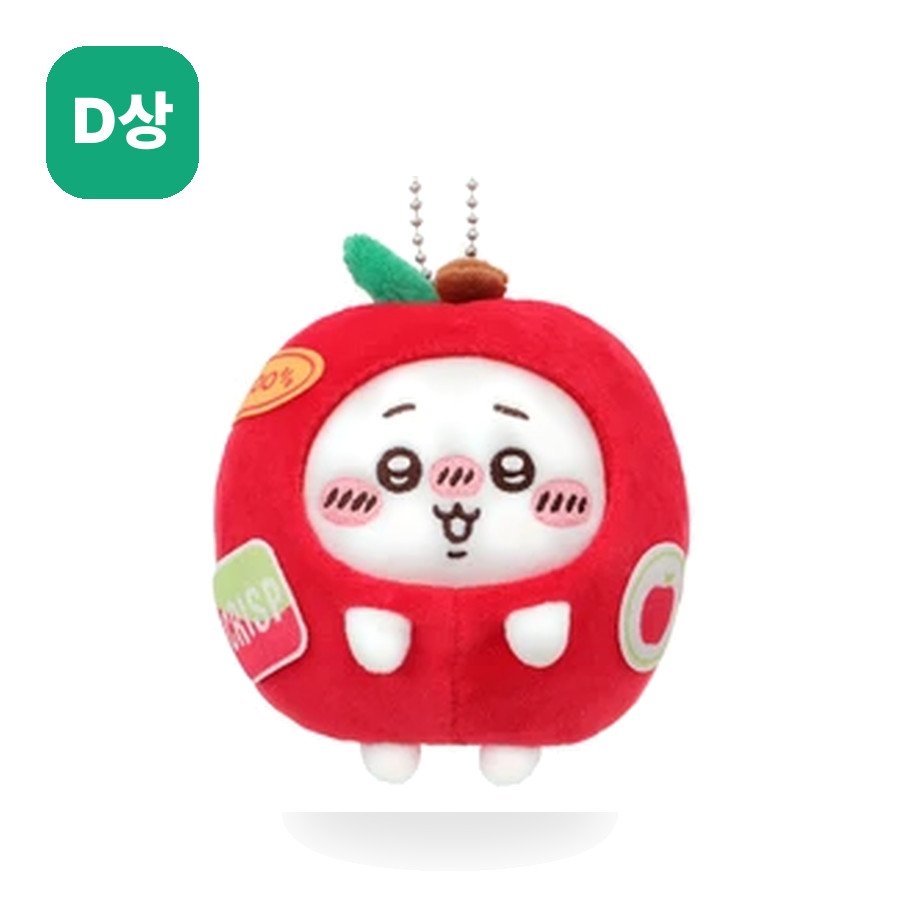
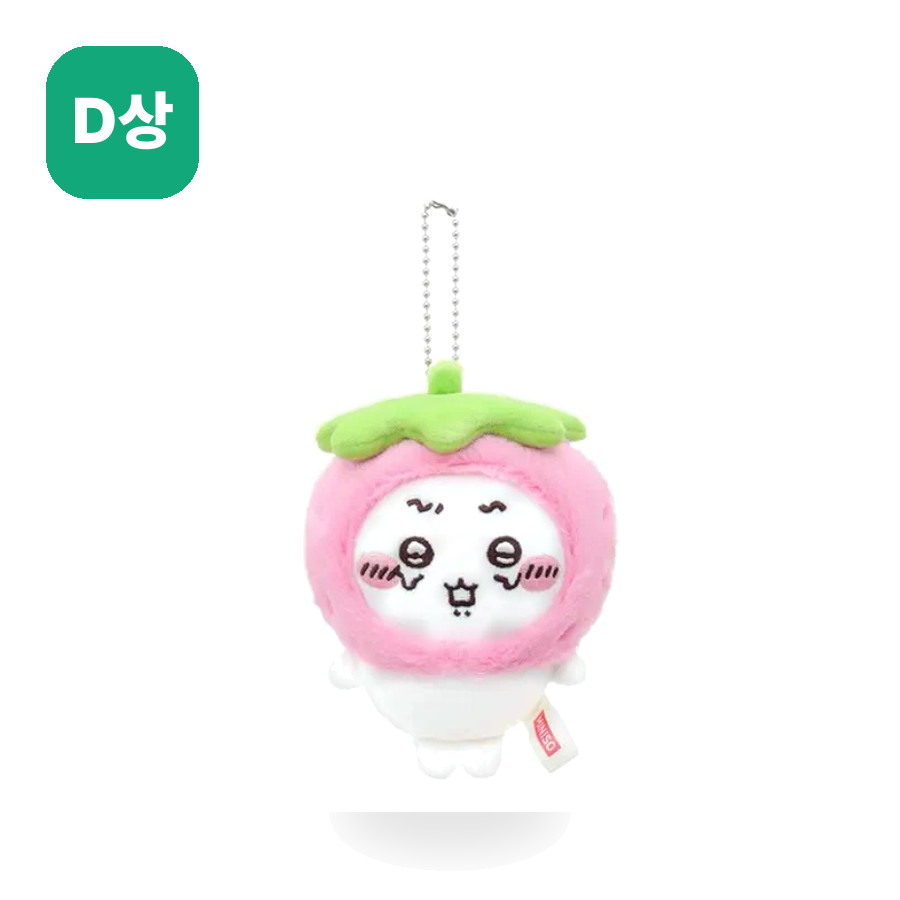
v4.4.24 갸루 판 D·E·F·G상 미니소 과일 실물 일치(공식 상품컷) + H·I상 홍콩 장바구니 모몽가/카니 교체, 라인업 갱신, COVER_VER 4.4.24

Changed region(s): [[0.2178, 0.1867, 0.7778, 0.8711]]

diff --git a/index.html b/index.html
@@ -22,7 +22,7 @@
 <link rel="stylesheet" href="https://fonts.googleapis.com/css2?family=Black+Han+Sans&family=Do+Hyeon&display=swap">
 <link rel="stylesheet" href="https://cdn.jsdelivr.net/gh/orioncactus/pretendard@v1.3.9/dist/web/variable/pretendardvariable-dynamic-subset.min.css">
 <link rel="preconnect" href="https://t1.kakaocdn.net" crossorigin>
-<link rel="stylesheet" href="assets/styles.css?v=4.4.23">
+<link rel="stylesheet" href="assets/styles.css?v=4.4.24">
 <script type="application/ld+json">
 {"@context":"https://schema.org","@type":"WebSite","name":"쿠지킹","alternateName":"KUJIKING","url":"https://kujiking.co.kr/"}
 </script>
@@ -900,7 +900,7 @@
       <button type="button" data-action="open-policy" data-policy="probability">확률 공시</button>
     </nav>
     <p class="footer-note">본 상품은 무작위 추첨 상품입니다. 교환 코드 사용(개봉) 후에는 청약철회가 제한됩니다. <b>만 19세 이상 성인 전용 서비스</b>로, 미성년자는 이용할 수 없습니다.</p>
-    <p class="footer-copy">© 2026 쿠지킹. All rights reserved. · <span class="proto-tag" id="protoTag">v4.4.23</span></p>
+    <p class="footer-copy">© 2026 쿠지킹. All rights reserved. · <span class="proto-tag" id="protoTag">v4.4.24</span></p>
   </div>
 </footer>
 
@@ -943,6 +943,6 @@
 </div>
 
 <script src="assets/config.js?v=3.0.2"></script>
-<script src="assets/app.js?v=4.4.23" defer></script>
+<script src="assets/app.js?v=4.4.24" defer></script>
 </body>
 </html>

diff --git a/assets/app.js b/assets/app.js
@@ -1,5 +1,5 @@
 /* =========================================================
-   쿠지킹 KUJIKING — app.js  (v4.4.23, vanilla · no build step)
+   쿠지킹 KUJIKING — app.js  (v4.4.24, vanilla · no build step)
    ---------------------------------------------------------
    · 해시 라우팅: #/  #/board/:id  #/my  #/winners  #/fairness  #/admin
    · 회원가입/로그인, 내 쿠폰함, 내 보관함(배송·포인트 전환),
@@ -128,7 +128,7 @@
   }
   var h = escapeHtml;
   /* 실물 커버 등 상품 이미지 캐시 갱신용 버전 (커버 교체 시 올린다) */
-  var COVER_VER = '4.4.23';
+  var COVER_VER = '4.4.24';
   /* 판마다 지정한 스토어 링크가 없을 때 쓰는 기본 스마트스토어 상품 주소 */
   var DEFAULT_STORE_URL = STORE_PRODUCT_URL;
   /* P상(굿즈 포인트) 카드 기본 이미지 — 판에 P상 이미지가 없으면 이 이미지를 쓴다 */

diff --git a/README.md b/README.md
@@ -10,6 +10,22 @@
 
 ---
 
+## v4.4.24 — 갸루 판 D·E·F·G상(미니소 과일) + H·I상(홍콩 장바구니) 실물 일치 교체
+
+- **사용자 지적**: "다른것도 제대로봐 다다르니까 열박세하지말고" · "실사로 넣으란게 아니라 실사랑 동일 제품 일러를 넣으라고" — D·E·F·G상은 사이트에 **둥근 과일 몸통(水果毛绒挂件, 사과/수박/파인애플/복숭아)** 컷이 들어가 있었는데 기남 님 실물은 **다른 라인**(후드형 과일 + 과일가게 점원복)이었고, H·I상은 **캐릭터가 한 칸씩 어긋나**(H에 치이카와, I에 모몽가) 있었다.
+- **D상 `미니소 과일 치이카와`**: 실물 = **분홍 딸기 후드(头套)** 인형(보내주신 `IMG_0350` 가운데 · `IMG_0353` 왼쪽과 동일). MINISO 공식 상품컷(水果市集 水果头套毛绒挂件)으로 교체.
+- **E상 `미니소 과일 하치와레`**: 실물 = **청사과 베레모 + 초록 점원 앞치마**(`IMG_0353` 3번째). MINISO 水果店员 공식 상품컷으로 교체(수박 → 청사과).
+- **F상 `미니소 과일 우사기`**: 실물 = **민트 점원복 우사기**(`IMG_0353` 2번째). MINISO 水果店员 공식 상품컷으로 교체(파인애플 → 점원복).
+- **G상 `미니소 과일 모몽가`**: 실물 = **라일락 점원복 + 포도 베레모 + 하트 귀**(`IMG_0350` 왼쪽). MINISO 水果店员 공식 상품컷으로 교체(복숭아 → 포도).
+- **H상 `홍콩 한정 장바구니 모몽가`**: 치이카와 사진이 들어가 있던 것을 **모몽가**로 교체(`IMG_0352` 홍콩 3종 실물 = 모몽가·카니·시사). 공식 단독컷이 없어 실물 사진 크롭을 사용.
+- **I상 `홍콩 한정 장바구니 카니`**: 모몽가가 들어가 있던 것을 **카니(분홍 집게)** 로 교체. 홍콩 샵 공식 캠페인 컷에서 크롭.
+- **J상 `홍콩 한정 장바구니 시사`**: 이미 시사로 맞아 그대로 유지.
+- **라인업**: `assets/products/gyaru-chiikawa/lineup.jpg` 의 D~I 썸네일·라벨을 새 카드와 동일하게 다시 생성(등급 배지·다른 등급·라스트원은 그대로).
+- **남은 확인**: DB `boards.tiers` 이름의 과일 표기(`사과`/`수박`/`파인애플`/`복숭아`)는 실물과 다르다 — 실물 기준은 **딸기(치이카와)·청사과(하치와레)·수박(우사기)·포도(모몽가)**. 이번 배포에서는 이미지·라인업만 중립 표기(`미니소 과일 치이카와` 등)로 맞추고 DB 는 손대지 않았다.
+- **버전**: `COVER_VER` 4.4.24, `index.html` 자산 쿼리 4.4.24, `protoTag` v4.4.24, 헤더 4.4.24.
+
+---
+
 ## v4.4.23 — 크리스마스 판 J상 이미지 교체 (산리오 키티 치이카와 · 실물 일치)
 
 - **사용자 지적**: J상 카드에 **키티 후드를 쓴** 신버전(2025 なりきり 콜라보)이 들어가 있었는데, 기남 님 실물은 **후드 없이 머리 옆 빨간 리본 + 연하늘 멜빵바지**인 2022 라인 디자인이었다(`IMG_0347` 빨간 동그라미 = 오른쪽 인형).
